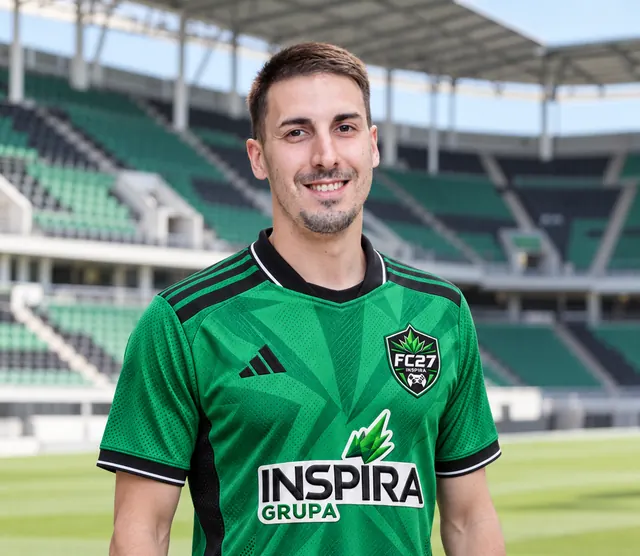
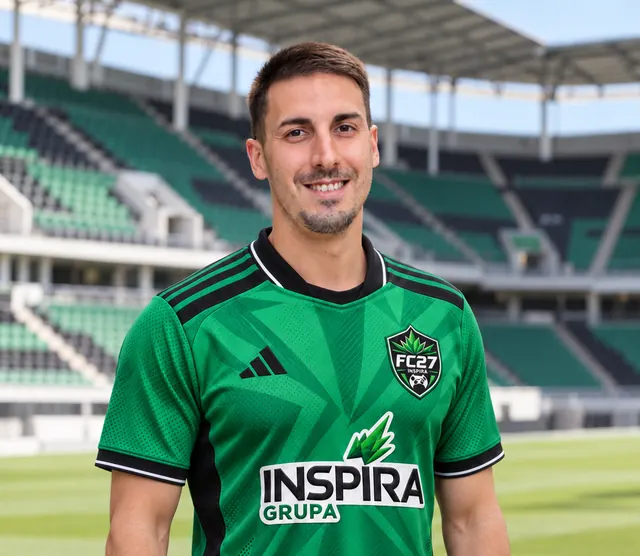
Add files via upload

Changed region(s): [[0.125, 0.0612, 0.8125, 1.0], [0.4375, 0.7644, 0.4688, 0.795], [0.4375, 0.5809, 0.4688, 0.6115]]

diff --git a/index.html b/index.html
@@ -1277,12 +1277,12 @@ function pravilaHtml(tekst){
 // ── Kartica igrača (klik na ime bilo gde na sajtu) ──
 // Fotografije su u korenu repo-a (pored index.html) — ime fajla = ime igrača bez kvačica, sa _ (npr. Goran_Bilic.webp).
 // Redosled imena nije bitan (Boris_Zmaher = Žmaher Boris). Nova slika: dovoljno je dodati fajl Ime_Prezime.webp pored index.html.
-const FOTO_IGRACA = ["Bojan_Zmijanjac", "Boris_Zmaher", "Dalibor_Birkas", "Danijel_Berkes", "Dejan_Bodiroga", "Dragan_Belegic", "Goran_Bilic", "Goran_Jankovic", "Goran_Vojnic_Hajduk", "Janos_Zedi", "Milenko_Jaric", "Milos_Cetina", "Nemanja_Sili_Todorovic", "Nenad_Gojkovic", "Srdjan_Mutlak", "Tamas_Horvat", "Veselin_Radosavljevic", "Vukasin_Plavsic", "Zoran_Grcic"];
+const FOTO_IGRACA = ["Bojan_Zmijanjac", "Boris_Zmaher", "Dalibor_Birkas", "Danijel_Berkes", "Dejan_Bodiroga", "Dragan_Belegic", "Filip_Tunguz", "Goran_Bilic", "Goran_Jankovic", "Goran_Vojnic_Hajduk", "Janos_Zedi", "Milenko_Jaric", "Milos_Cetina", "Nemanja_Sili_Todorovic", "Nenad_Gojkovic", "Srdjan_Mutlak", "Tamas_Horvat", "Veselin_Radosavljevic", "Vukasin_Plavsic", "Zoran_Grcic"];
 function kljucImena(t){
   return String(t||'').replace(/[đĐ]/g,'dj').normalize('NFD').replace(/[\u0300-\u036f]/g,'')
     .toLowerCase().replace(/[^a-z0-9]+/g,' ').trim().split(' ').filter(Boolean).sort().join(' ');
 }
-const FOTO_MAPA = {}; const FOTO_VERZIJA = '3';   // povećati kad se slike zamene, da browser ne prikazuje stare
+const FOTO_MAPA = {}; const FOTO_VERZIJA = '4';   // povećati kad se slike zamene, da browser ne prikazuje stare
 FOTO_IGRACA.forEach(f=>FOTO_MAPA[kljucImena(f.replace(/_/g,' '))]=f+'.webp?v='+FOTO_VERZIJA);
 function fotoIgraca(ime){
   if(FOTO_MAPA[kljucImena(ime)]) return FOTO_MAPA[kljucImena(ime)];
